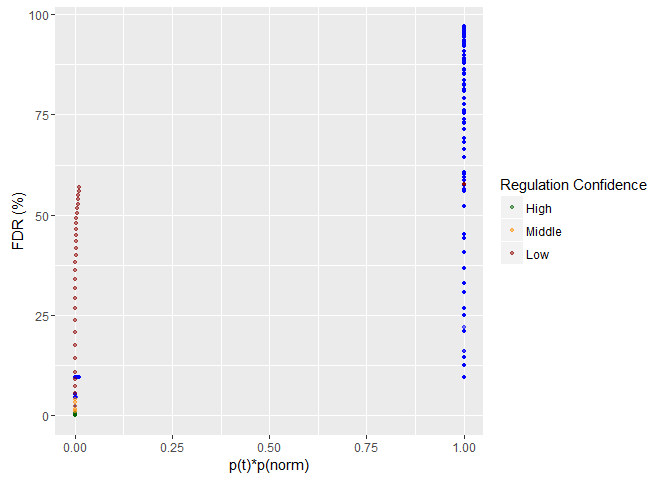
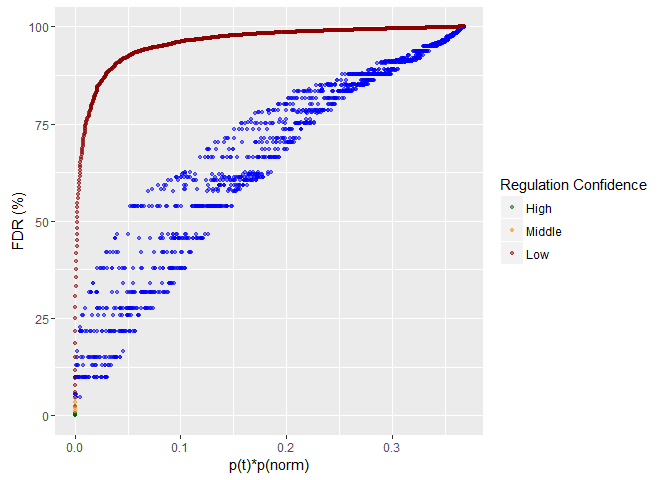
Minor correction in the volcano plot analysis.

diff --git a/Expression_data/quantitative_proteomics.md b/Expression_data/quantitative_proteomics.md
@@ -457,7 +457,7 @@ plot(lambdaHistogramPlot)
 corePopulation <- round(100*length(lambdaLog[abs(lambdaLog) < 1])/length(lambdaLog))/100
 ```
 
-67% of the p-values is contained within the 1.1 deviation ratio. This percentile will be used in the following as core population.
+76% of the p-values is contained within the 1.1 deviation ratio. This percentile will be used in the following as core population.
 
 Multiple hypothesis testing
 ---------------------------
@@ -545,7 +545,7 @@ plot(fdrPlot)
 
 ![](quantitative_proteomics_files/figure-markdown_github/fdr_plot-1.png)
 
-In this example, 10% FDR is achieved at p-value 0.074 and 5% FDR at p-value 0.027, as indicated by the orange and green lines, respectively. the lowest q-value is 2.42%.
+In this example, 10% FDR is achieved at p-value 0.074 and 5% FDR at p-value 0.027, as indicated by the orange and green lines, respectively. the lowest q-value is 2.5%. The ability to differentiate proteins at a given FDR depends on the score metric used to score them. Here the p-value alone does not allow reaching an FDR of 1%.
 
 Independent weighting hypothesis
 --------------------------------
@@ -650,18 +650,18 @@ plot(volcanoPlot)
 
 ![](quantitative_proteomics_files/figure-markdown_github/volcano_plot-1.png)
 
-Note that this can easily be combined with an arbirary p-value threshold, e.g. 0.05.
+Note that the function used to score the protein, *tNormScore &lt;- scoreNorm \* scoreT*, can be easily extended. For example, it can be combined with an arbirary p-value threshold, e.g. 0.05.
 
 ``` r
 pLimit <- 0.05
 ```
 
-For example, in the section below, we conduct the same analysis for proteins with p-value &lt; 0.05.
+For example, in the section below, we conduct the same analysis but use the weighting only for proteins with p-value &lt; 0.05.
 
 ``` r
 scoreNorm <- dnorm(validProteinGroupsRatios$fc, mean = medianFC, sd = interQuantilesFC/2)
 scoreT <- dt(validProteinGroupsRatios$tTestStatistic, df =degreesOfFreedom)
-tNormScore05 <- ifelse(validProteinGroupsRatios$tTestPValue < pLimit, scoreNorm * scoreT, 1)
+tNormScore05 <- ifelse(validProteinGroupsRatios$tTestPValue < pLimit, scoreNorm * scoreT, scoreT)
 validProteinGroupsRatios$tNormScore05 <- tNormScore05
 scoreSums05 <- c()
 currentSum <- 0
@@ -729,6 +729,8 @@ plot(volcanoPlot05)
 ```
 
 ![](quantitative_proteomics_files/figure-markdown_github/fdr_correction_0.05-3.png)
+
+Here we have scored based on their ability to be significantly differentially expressed or strongly differentially expressed. It is also possible to require proteins to be both significantly differentially expressed and strongly differentially expressed. For this, replace *scoreNorm \* scoreT* with *1-((1-scoreNorm) \* (1-scoreT))*. In this example however, no protein satisfies both condition.
 
 Missing values imputation
 -------------------------
